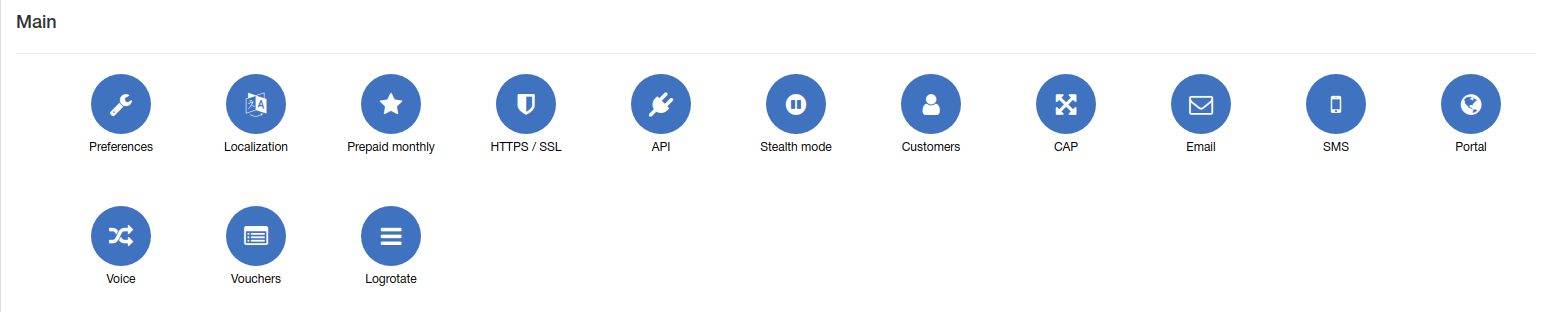
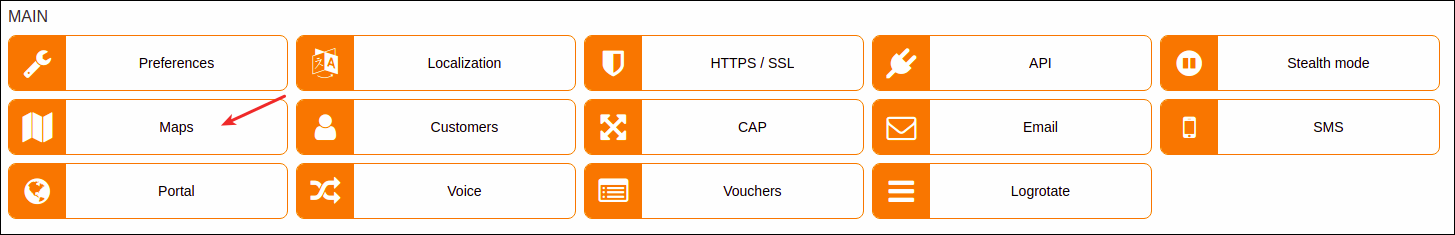
added minor info about maps config

diff --git a/files/en/configuration/main_configuration/maps/maps.md b/files/en/configuration/main_configuration/maps/maps.md
@@ -1,2 +1,26 @@
 Maps
 ==================
+Splynx supports using three different map engines withing the system: Open Street map, Google map and Bing map. To configure Maps in Splynx navigate to `Config → Main → Maps`
+
+![Icon](icon.png)
+
+By default, Splynx system uses *Open Street* map type.
+
+Choosing **Open Street** map type we can set up the following settings:
+
+![OpenStreet](openstreet.png)
+
+* **Main bounds** - the options are *By markers bounds* (e.g. the map that starts in starts in Auckland, New Zealand and is restricted to New Zealand. The user can pan away from Auckland and explore other New Zealand cities, but the user cannot pan or zoom to beyond the constraints set on the map.), *By country* (restricted to specific country only) and *By custom area* (it's possible to choose the necessary area on the map manually).
+
+* **OpenStreet geocoding** - the format that is used when geocoding is processed from the address, e.g. `{street}{city}{zip}{location}{partner}|` - after `|` you need to set a delimiter - by default it's a comma.
+
+------------
+
+For **Google Map** type, it's required to obtain a [Google Maps API key](https://developers.google.com/maps/documentation/javascript/get-api-key) (restricted for domain) to use this map type and [Google Geocode Javascript API key](https://developers.google.com/maps/documentation/javascript/get-api-key) (restricted for IP) to use google maps geocoding API
+
+![Google Maps](googlemaps.png)
+------------
+
+For **Bing Map** type, it's required to create a [Bing Maps API key](https://docs.microsoft.com/en-us/bingmaps/getting-started/bing-maps-dev-center-help/getting-a-bing-maps-key) o use this map type.
+
+![Bing Maps](bingmaps.png)

diff --git a/files/en/index.md b/files/en/index.md
@@ -242,6 +242,7 @@ Table of contents
   * [Email config](configuration/main_configuration/email_config/email_config.md)
   * [Localization](configuration/main_configuration/localization/localization.md)
   * [Logrotate](configuration/main_configuration/logrotate/logrotate.md)
+  * [Maps](configuration/main_configuration/maps/maps.md)
   * [Preferences](configuration/main_configuration/preferences/preferences.md)
   * [Prepaid monthly](configuration/main_configuration/prepaid_monthly/prepaid_monthly.md)
   * [SMS config](configuration/main_configuration/sms_config/sms_config.md)

diff --git a/files/en/configuration/main_configuration/main_configuration.md b/files/en/configuration/main_configuration/main_configuration.md
@@ -19,6 +19,8 @@ Please, follow the links below to find tutorial page about every single part of 
 
 * [Logrotate](configuration/main_configuration/logrotate/logrotate.md)
 
+* [Maps](configuration/main_configuration/maps/maps.md)
+
 * [Preferences](configuration/main_configuration/preferences/preferences.md)
 
 * [Prepaid monthly](configuration/main_configuration/prepaid_monthly/prepaid_monthly.md)
